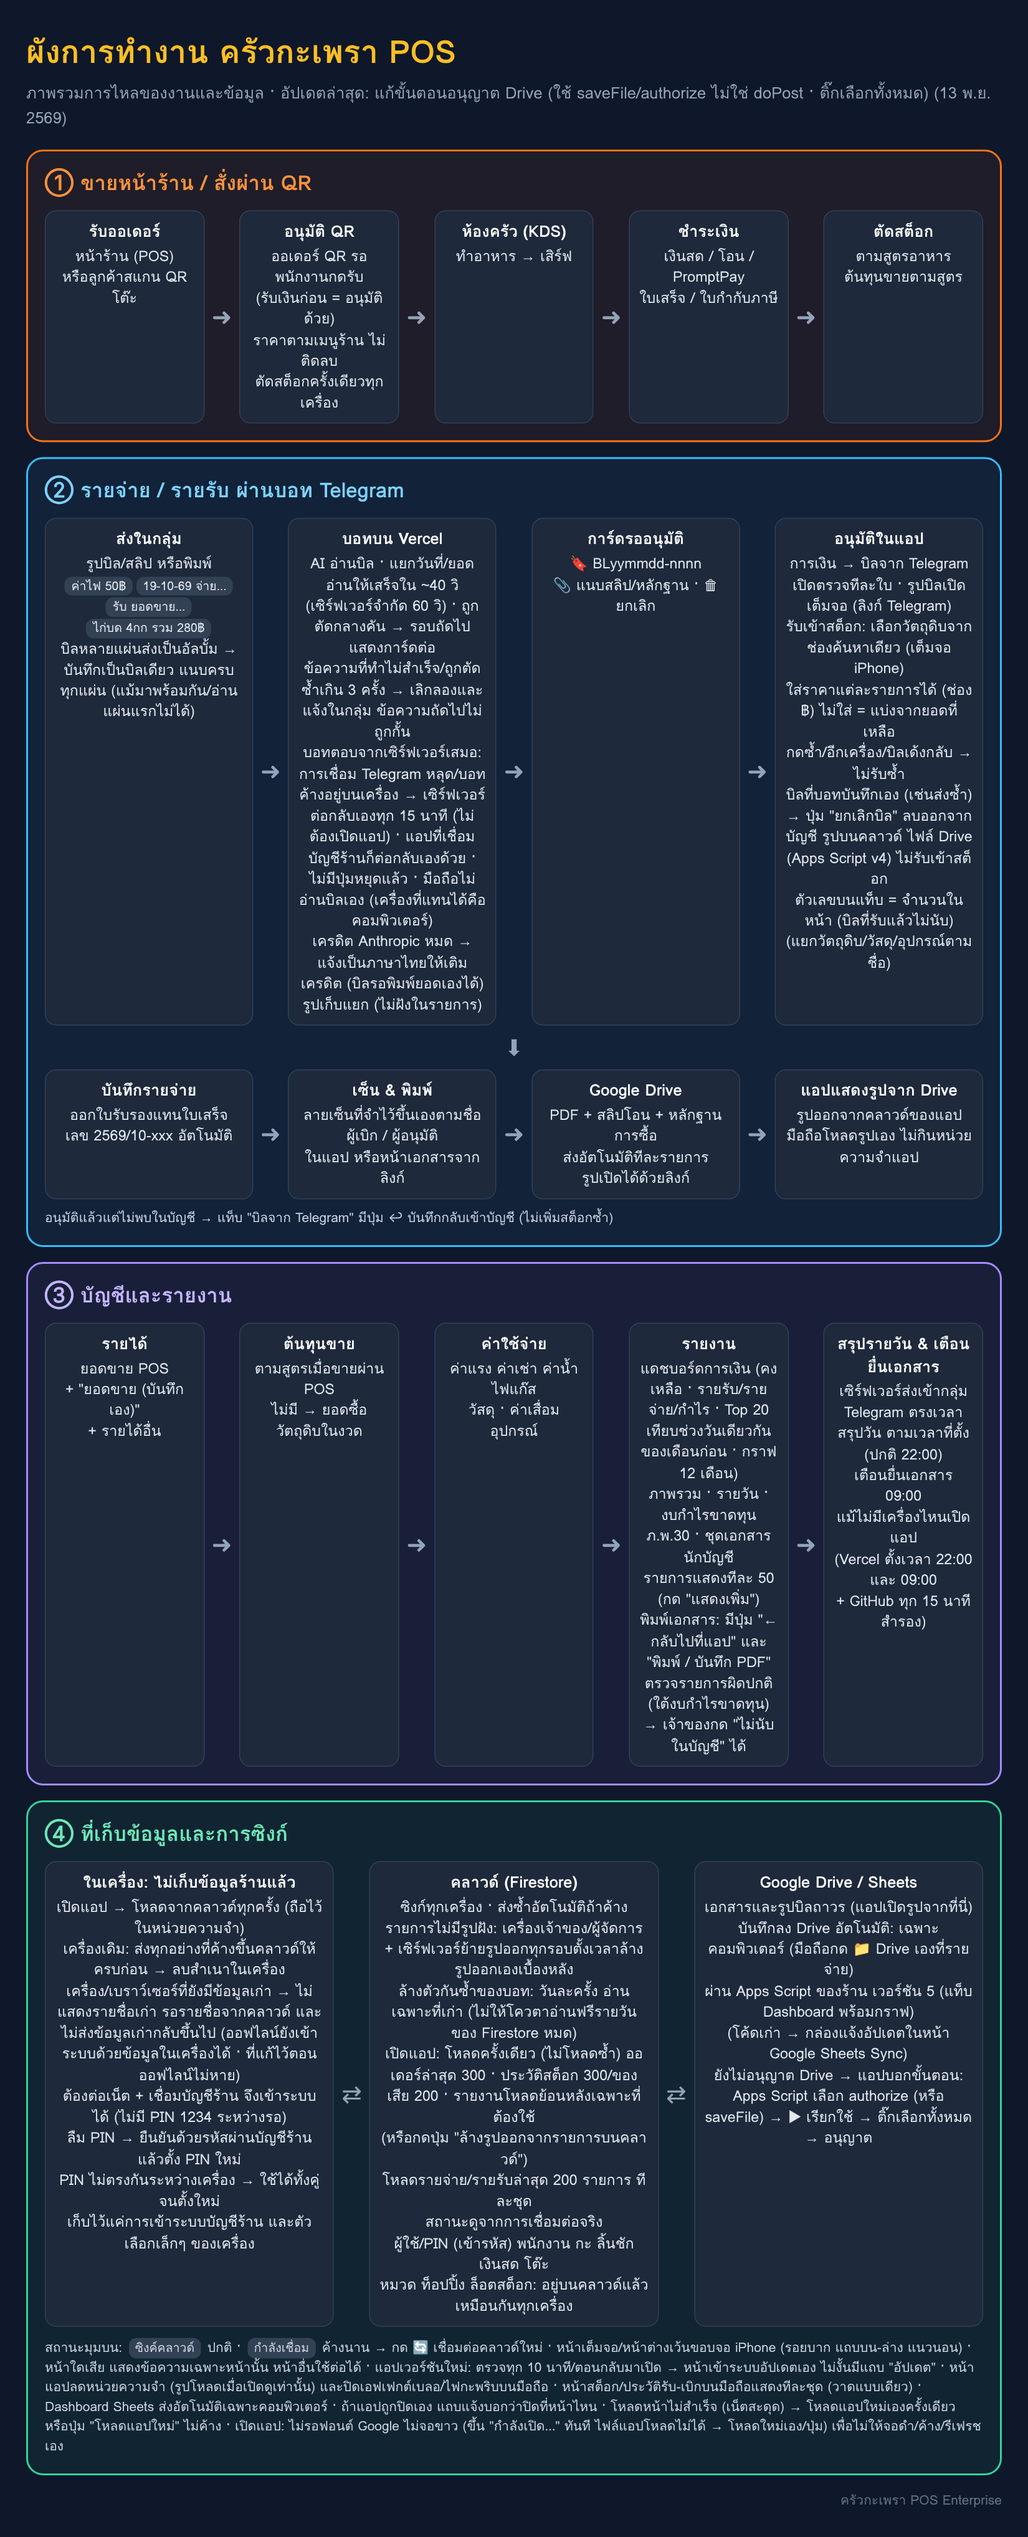
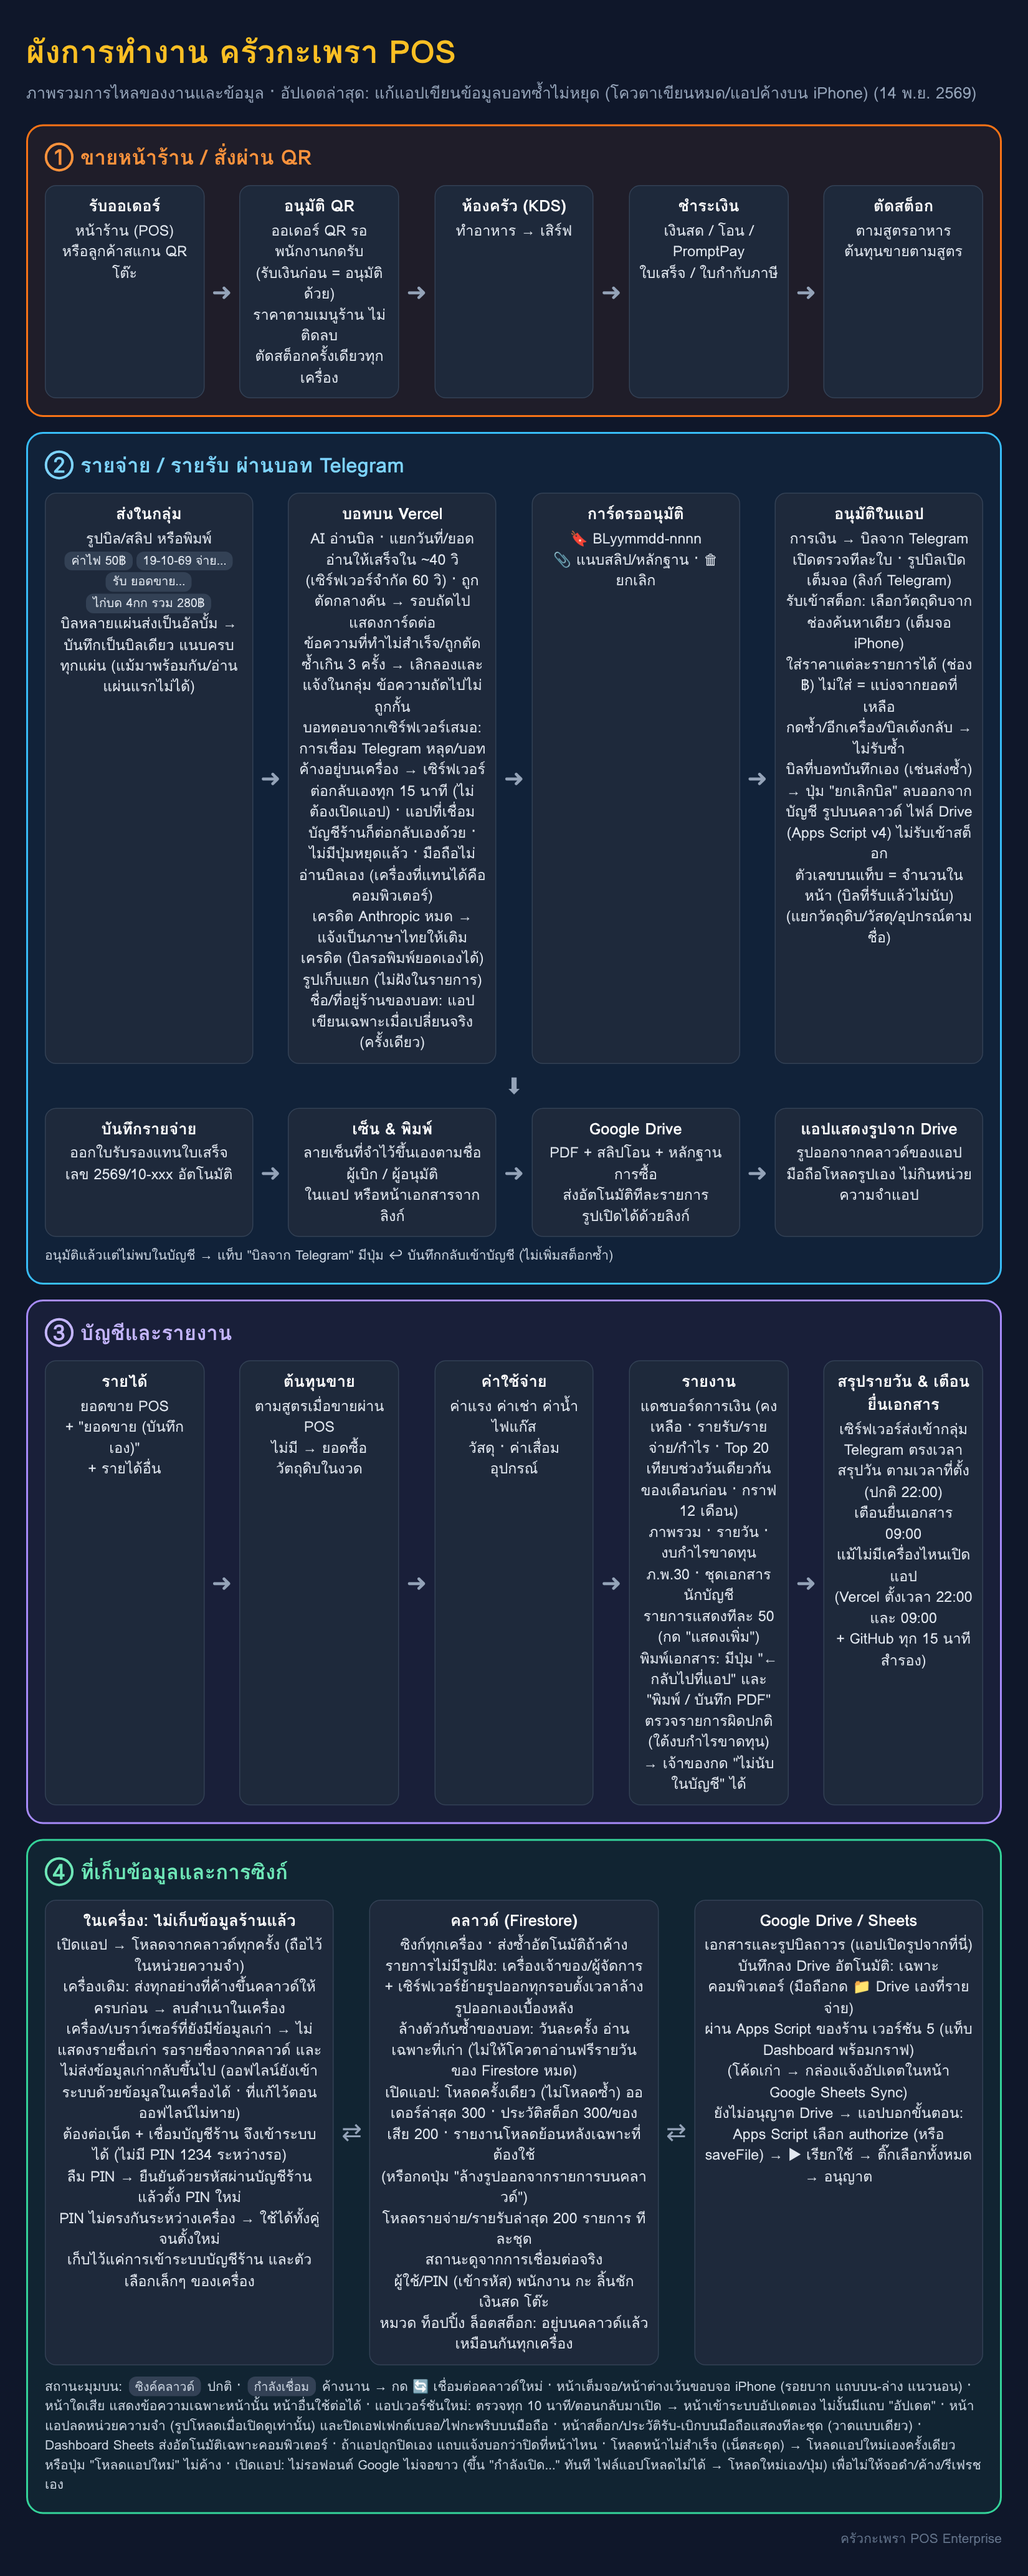
Stop the app writing the bot's shop details again and again
The app kept the server bot's shop details in step by comparing JSON
text; the cloud gives the fields back in another order, so every write
looked different and was written again. Once the server set the bot back
on the server (webhook: true) every open device looped, the daily write
quota ran out within hours and iPhones closed the page. Compared field by
field now, and written at most once per change on each device.

Claude-Session: https://claude.ai/code/session_01Gq3UvYW4wv3hsVCXoh5wxy

diff --git a/docs/workflow/flow.html b/docs/workflow/flow.html
@@ -17,7 +17,7 @@ h1{margin:0 0 4px;font-size:34px;color:#fbbf24}.sub{color:#94a3b8;font-size:17px
 .foot{color:#64748b;font-size:14px;margin-top:6px;text-align:right}
 </style></head><body>
 <h1>ผังการทำงาน ครัวกะเพรา POS</h1>
-<div class="sub">ภาพรวมการไหลของงานและข้อมูล · อัปเดตล่าสุด: แก้ขั้นตอนอนุญาต Drive (ใช้ saveFile/authorize ไม่ใช่ doPost · ติ๊กเลือกทั้งหมด) (13 พ.ย. 2569)</div>
+<div class="sub">ภาพรวมการไหลของงานและข้อมูล · อัปเดตล่าสุด: แก้แอปเขียนข้อมูลบอทซ้ำไม่หยุด (โควตาเขียนหมด/แอปค้างบน iPhone) (14 พ.ย. 2569)</div>
 
 <div class="lane pos"><h2>① ขายหน้าร้าน / สั่งผ่าน QR</h2>
 <div class="row">
@@ -31,7 +31,7 @@ h1{margin:0 0 4px;font-size:34px;color:#fbbf24}.sub{color:#94a3b8;font-size:17px
 <div class="lane tg"><h2>② รายจ่าย / รายรับ ผ่านบอท Telegram</h2>
 <div class="row">
 <div class="box"><b>ส่งในกลุ่ม</b>รูปบิล/สลิป หรือพิมพ์<br><span class="tag">ค่าไฟ 50฿</span><span class="tag">19-10-69 จ่าย…</span><span class="tag">รับ ยอดขาย…</span><span class="tag">ไก่บด 4กก รวม 280฿</span><br>บิลหลายแผ่นส่งเป็นอัลบั้ม → บันทึกเป็นบิลเดียว แนบครบทุกแผ่น (แม้มาพร้อมกัน/อ่านแผ่นแรกไม่ได้)</div><div class="ar">➜</div>
-<div class="box"><b>บอทบน Vercel</b>AI อ่านบิล · แยกวันที่/ยอด<br>อ่านให้เสร็จใน ~40 วิ (เซิร์ฟเวอร์จำกัด 60 วิ) · ถูกตัดกลางคัน → รอบถัดไปแสดงการ์ดต่อ<br>ข้อความที่ทำไม่สำเร็จ/ถูกตัดซ้ำเกิน 3 ครั้ง → เลิกลองและแจ้งในกลุ่ม ข้อความถัดไปไม่ถูกกั้น<br>บอทตอบจากเซิร์ฟเวอร์เสมอ: การเชื่อม Telegram หลุด/บอทค้างอยู่บนเครื่อง → เซิร์ฟเวอร์ต่อกลับเองทุก 15 นาที (ไม่ต้องเปิดแอป) · แอปที่เชื่อมบัญชีร้านก็ต่อกลับเองด้วย · ไม่มีปุ่มหยุดแล้ว · มือถือไม่อ่านบิลเอง (เครื่องที่แทนได้คือคอมพิวเตอร์)<br>เครดิต Anthropic หมด → แจ้งเป็นภาษาไทยให้เติมเครดิต (บิลรอพิมพ์ยอดเองได้)<br>รูปเก็บแยก (ไม่ฝังในรายการ)</div><div class="ar">➜</div>
+<div class="box"><b>บอทบน Vercel</b>AI อ่านบิล · แยกวันที่/ยอด<br>อ่านให้เสร็จใน ~40 วิ (เซิร์ฟเวอร์จำกัด 60 วิ) · ถูกตัดกลางคัน → รอบถัดไปแสดงการ์ดต่อ<br>ข้อความที่ทำไม่สำเร็จ/ถูกตัดซ้ำเกิน 3 ครั้ง → เลิกลองและแจ้งในกลุ่ม ข้อความถัดไปไม่ถูกกั้น<br>บอทตอบจากเซิร์ฟเวอร์เสมอ: การเชื่อม Telegram หลุด/บอทค้างอยู่บนเครื่อง → เซิร์ฟเวอร์ต่อกลับเองทุก 15 นาที (ไม่ต้องเปิดแอป) · แอปที่เชื่อมบัญชีร้านก็ต่อกลับเองด้วย · ไม่มีปุ่มหยุดแล้ว · มือถือไม่อ่านบิลเอง (เครื่องที่แทนได้คือคอมพิวเตอร์)<br>เครดิต Anthropic หมด → แจ้งเป็นภาษาไทยให้เติมเครดิต (บิลรอพิมพ์ยอดเองได้)<br>รูปเก็บแยก (ไม่ฝังในรายการ)<br>ชื่อ/ที่อยู่ร้านของบอท: แอปเขียนเฉพาะเมื่อเปลี่ยนจริง (ครั้งเดียว)</div><div class="ar">➜</div>
 <div class="box"><b>การ์ดรออนุมัติ</b>🔖 BLyymmdd-nnnn<br>📎 แนบสลิป/หลักฐาน · 🗑 ยกเลิก</div><div class="ar">➜</div>
 <div class="box"><b>อนุมัติในแอป</b>การเงิน → บิลจาก Telegram<br>เปิดตรวจทีละใบ · รูปบิลเปิดเต็มจอ (ลิงก์ Telegram)<br>รับเข้าสต็อก: เลือกวัตถุดิบจากช่องค้นหาเดียว (เต็มจอ iPhone)<br>ใส่ราคาแต่ละรายการได้ (ช่อง ฿) ไม่ใส่ = แบ่งจากยอดที่เหลือ<br>กดซ้ำ/อีกเครื่อง/บิลเด้งกลับ → ไม่รับซ้ำ<br>บิลที่บอทบันทึกเอง (เช่นส่งซ้ำ) → ปุ่ม "ยกเลิกบิล" ลบออกจากบัญชี รูปบนคลาวด์ ไฟล์ Drive (Apps Script v4) ไม่รับเข้าสต็อก<br>ตัวเลขบนแท็บ = จำนวนในหน้า (บิลที่รับแล้วไม่นับ)<br>(แยกวัตถุดิบ/วัสดุ/อุปกรณ์ตามชื่อ)</div>
 </div>

diff --git a/src/components/telegram/TelegramInboxPoller.tsx b/src/components/telegram/TelegramInboxPoller.tsx
@@ -65,6 +65,12 @@ export async function readTelegramReceipt(token: string, item: Pick<PendingRecei
  * no server needed). Receives slips and bills, typed entries, menu buttons and the buttons under
  * saved entries. Mounted once in the app.
  */
+/** The same shop details, whatever order the fields come in (missing = empty) */
+export const sameShop = (a: Record<string, unknown> | undefined, b: Record<string, unknown>) => {
+  const x = a || {};
+  return [...new Set([...Object.keys(x), ...Object.keys(b)])].every(k => String(x[k] ?? '') === String(b[k] ?? ''));
+};
+
 export const TelegramInboxPoller = () => {
   const pos = usePOS();
   const posRef = useRef(pos);
@@ -138,10 +144,17 @@ export const TelegramInboxPoller = () => {
   const shopNow = { name: shop.name, taxId: shop.taxId, address: shop.address, phone: shop.phone };
   const shopKey = JSON.stringify(shopNow);
   const vatNow = vatRateOf(pos.settings);
+  // What this device last wrote: written once per change, never again for the same values (the
+  // check compared JSON text, and the cloud gives the fields back in another order, so every write
+  // came back "different" and was written again, thousands of times, until the daily write quota ran out)
+  const lastShopWrite = useRef('');
   useEffect(() => {
     if (!onServer || !branchId || !serverConfig) return;
-    const same = JSON.stringify(serverConfig.shop || {}) === shopKey && Number(serverConfig.vatRate) === vatNow;
-    if (!same) void mergeBranchDoc(branchId, BOT_CONFIG_DOC, { shop: shopNow, vatRate: vatNow });
+    const same = sameShop(serverConfig.shop, shopNow) && Number(serverConfig.vatRate) === vatNow;
+    const key = `${branchId}|${shopKey}|${vatNow}`;
+    if (same || lastShopWrite.current === key) return;
+    lastShopWrite.current = key;
+    void mergeBranchDoc(branchId, BOT_CONFIG_DOC, { shop: shopNow, vatRate: vatNow });
     // eslint-disable-next-line react-hooks/exhaustive-deps
   }, [onServer, branchId, shopKey, vatNow, serverConfig?.shop, serverConfig?.vatRate]);
 

diff --git a/src/components/telegram/__tests__/sameShop.test.ts b/src/components/telegram/__tests__/sameShop.test.ts
@@ -1,0 +1,14 @@
+import { describe, expect, it, vi } from 'vitest';
+
+vi.mock('../../../context/POSContext', () => ({ usePOS: () => ({}) }));
+const { sameShop } = await import('../TelegramInboxPoller');
+
+describe('the shop details kept with the server bot', () => {
+  it('are the same whatever order the cloud gives the fields back in', () => {
+    const now = { name: 'ครัวกะเพรา', taxId: '0105562089123', address: 'ตลาด กกท', phone: '097' };
+    expect(sameShop({ address: 'ตลาด กกท', name: 'ครัวกะเพรา', phone: '097', taxId: '0105562089123' }, now)).toBe(true);
+    expect(sameShop({ name: 'ครัวกะเพรา', address: 'ตลาด กกท', phone: '097' }, { ...now, taxId: undefined as any })).toBe(true);
+    expect(sameShop({ ...now, phone: '098' }, now)).toBe(false);
+    expect(sameShop(undefined, now)).toBe(false);
+  });
+});
